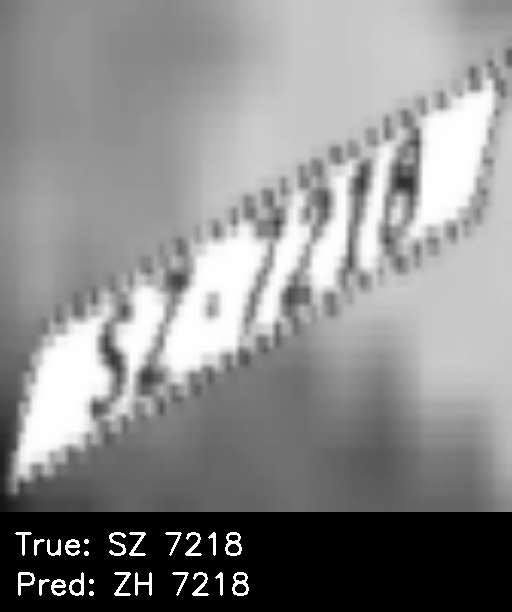
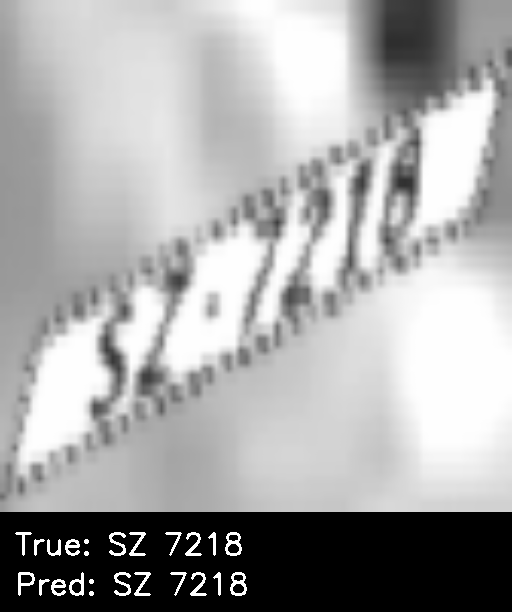
Merge rnn ocr model

diff --git a/out/runs/ocr/report.html b/out/runs/ocr/report.html
@@ -22,10 +22,10 @@
             <div style="display: flex;justify-content: center;">
                 <table>
 <thead>
-<tr><th>train                      </th><th>validation                  </th><th style="text-align: right;">  step</th></tr>
+<tr><th>train                        </th><th>validation                    </th><th style="text-align: right;">  step</th></tr>
 </thead>
 <tbody>
-<tr><td>{&#x27;loss&#x27;: 4.639585576951504}</td><td>{&#x27;loss&#x27;: 3.0189115557915125}</td><td style="text-align: right;">     9</td></tr>
+<tr><td>{&#x27;loss&#x27;: -0.4548510223685298}</td><td>{&#x27;loss&#x27;: -0.21562448965433317}</td><td style="text-align: right;">     4</td></tr>
 </tbody>
 </table>
             </div>
@@ -33,7 +33,7 @@
 
     <div id = "static_validation_loss">
         <script type = "text/javascript">
-            var spec = {"$schema": "https://vega.github.io/schema/vega-lite/v5.json", "data": {"values": [{"step": "0", "loss": "4.906506472673172", "rev": "workspace"}, {"step": "1", "loss": "4.683909744788439", "rev": "workspace"}, {"step": "2", "loss": "4.373046163565073", "rev": "workspace"}, {"step": "3", "loss": "3.8294682785486565", "rev": "workspace"}, {"step": "4", "loss": "3.5281838469016247", "rev": "workspace"}, {"step": "5", "loss": "3.307673426774832", "rev": "workspace"}, {"step": "6", "loss": "3.186635034206586", "rev": "workspace"}, {"step": "7", "loss": "3.0958421306732373", "rev": "workspace"}, {"step": "8", "loss": "3.0493940321298747", "rev": "workspace"}, {"step": "9", "loss": "3.0189115557915125", "rev": "workspace"}]}, "title": "validation/loss", "width": 300, "height": 300, "params": [{"name": "smooth", "value": 0.001, "bind": {"input": "range", "min": 0.001, "max": 1, "step": 0.001}}], "layer": [{"mark": "line", "encoding": {"x": {"field": "step", "type": "quantitative", "title": "step"}, "y": {"field": "loss", "type": "quantitative", "title": "loss", "scale": {"zero": false}}, "color": {"field": "rev", "type": "nominal"}}, "transform": [{"loess": "loss", "on": "step", "groupby": ["rev", "filename", "field", "filename::field"], "bandwidth": {"signal": "smooth"}}]}, {"mark": {"type": "point", "tooltip": {"content": "data"}}, "encoding": {"x": {"field": "step", "type": "quantitative", "title": "step"}, "y": {"field": "loss", "type": "quantitative", "title": "loss", "scale": {"zero": false}}, "color": {"field": "rev", "type": "nominal"}}}]};
+            var spec = {"$schema": "https://vega.github.io/schema/vega-lite/v5.json", "data": {"values": [{"step": "0", "loss": "0.8247212672080749", "rev": "workspace"}, {"step": "1", "loss": "-0.032062520732721075", "rev": "workspace"}, {"step": "2", "loss": "-0.1608594037576491", "rev": "workspace"}, {"step": "3", "loss": "-0.19911248792106143", "rev": "workspace"}, {"step": "4", "loss": "-0.21562448965433317", "rev": "workspace"}]}, "title": "validation/loss", "width": 300, "height": 300, "params": [{"name": "smooth", "value": 0.001, "bind": {"input": "range", "min": 0.001, "max": 1, "step": 0.001}}], "layer": [{"mark": "line", "encoding": {"x": {"field": "step", "type": "quantitative", "title": "step"}, "y": {"field": "loss", "type": "quantitative", "title": "loss", "scale": {"zero": false}}, "color": {"field": "rev", "type": "nominal"}}, "transform": [{"loess": "loss", "on": "step", "groupby": ["rev", "filename", "field", "filename::field"], "bandwidth": {"signal": "smooth"}}]}, {"mark": {"type": "point", "tooltip": {"content": "data"}}, "encoding": {"x": {"field": "step", "type": "quantitative", "title": "step"}, "y": {"field": "loss", "type": "quantitative", "title": "loss", "scale": {"zero": false}}, "color": {"field": "rev", "type": "nominal"}}}]};
             vegaEmbed('#static_validation_loss', spec);
         </script>
     </div>
@@ -41,7 +41,7 @@
 
     <div id = "static_train_loss">
         <script type = "text/javascript">
-            var spec = {"$schema": "https://vega.github.io/schema/vega-lite/v5.json", "data": {"values": [{"step": "0", "loss": "7.523210719227791", "rev": "workspace"}, {"step": "1", "loss": "7.178695440292358", "rev": "workspace"}, {"step": "2", "loss": "6.717950440943241", "rev": "workspace"}, {"step": "3", "loss": "5.933043695986271", "rev": "workspace"}, {"step": "4", "loss": "5.426142118871212", "rev": "workspace"}, {"step": "5", "loss": "5.067850895226002", "rev": "workspace"}, {"step": "6", "loss": "4.883986108005047", "rev": "workspace"}, {"step": "7", "loss": "4.738595016300678", "rev": "workspace"}, {"step": "8", "loss": "4.680229909718037", "rev": "workspace"}, {"step": "9", "loss": "4.639585576951504", "rev": "workspace"}]}, "title": "train/loss", "width": 300, "height": 300, "params": [{"name": "smooth", "value": 0.001, "bind": {"input": "range", "min": 0.001, "max": 1, "step": 0.001}}], "layer": [{"mark": "line", "encoding": {"x": {"field": "step", "type": "quantitative", "title": "step"}, "y": {"field": "loss", "type": "quantitative", "title": "loss", "scale": {"zero": false}}, "color": {"field": "rev", "type": "nominal"}}, "transform": [{"loess": "loss", "on": "step", "groupby": ["rev", "filename", "field", "filename::field"], "bandwidth": {"signal": "smooth"}}]}, {"mark": {"type": "point", "tooltip": {"content": "data"}}, "encoding": {"x": {"field": "step", "type": "quantitative", "title": "step"}, "y": {"field": "loss", "type": "quantitative", "title": "loss", "scale": {"zero": false}}, "color": {"field": "rev", "type": "nominal"}}}]};
+            var spec = {"$schema": "https://vega.github.io/schema/vega-lite/v5.json", "data": {"values": [{"step": "0", "loss": "2.1134449131786823", "rev": "workspace"}, {"step": "1", "loss": "0.015475681808311492", "rev": "workspace"}, {"step": "2", "loss": "-0.29074251413112506", "rev": "workspace"}, {"step": "3", "loss": "-0.38665884447982535", "rev": "workspace"}, {"step": "4", "loss": "-0.4548510223685298", "rev": "workspace"}]}, "title": "train/loss", "width": 300, "height": 300, "params": [{"name": "smooth", "value": 0.001, "bind": {"input": "range", "min": 0.001, "max": 1, "step": 0.001}}], "layer": [{"mark": "line", "encoding": {"x": {"field": "step", "type": "quantitative", "title": "step"}, "y": {"field": "loss", "type": "quantitative", "title": "loss", "scale": {"zero": false}}, "color": {"field": "rev", "type": "nominal"}}, "transform": [{"loess": "loss", "on": "step", "groupby": ["rev", "filename", "field", "filename::field"], "bandwidth": {"signal": "smooth"}}]}, {"mark": {"type": "point", "tooltip": {"content": "data"}}, "encoding": {"x": {"field": "step", "type": "quantitative", "title": "step"}, "y": {"field": "loss", "type": "quantitative", "title": "loss", "scale": {"zero": false}}, "color": {"field": "rev", "type": "nominal"}}}]};
             vegaEmbed('#static_train_loss', spec);
         </script>
     </div>

diff --git a/out/evaluations/stack/report.html b/out/evaluations/stack/report.html
@@ -20,7 +20,7 @@
 <tr><th style="text-align: right;">  val_acc</th></tr>
 </thead>
 <tbody>
-<tr><td style="text-align: right;">0.0192308</td></tr>
+<tr><td style="text-align: right;"> 0.792268</td></tr>
 </tbody>
 </table>
             </div>

diff --git a/src/models/cnn_ocr_model.py b/src/models/cnn_ocr_model.py
@@ -19,10 +19,6 @@ class CNNOCRModel(AbstractModel):
         gru_num_layers: int,
         gru_num_classes: int,
         gru_dropout: float,
-        rnn_avgpool_size: Tuple[int, int],
-        rnn_hidden_layers: Tuple[int],
-        rnn_num_classes: int,
-        rnn_dropout: float,
     ):
         """
         Initialize the model.
@@ -33,21 +29,14 @@ class CNNOCRModel(AbstractModel):
             conv_layers (Tuple[int | str]): List of convolutional layers. Each
                 element can be an integer (number of features) or a string
                 ("M" for maxpooling).
-            gru_avgpool_size (Tuple[int, int]): Size of the average pooling layer.
-                It should be a tuple of two integers.
+            gru_avgpool_size (Tuple[int, int]): Size of the average pooling
+                layer. It should be a tuple of two integers.
             gru_hidden_size (int): Number of features in the hidden state of
                 the GRU.
             gru_num_layers (int): Number of recurrent layers.
             gru_num_classes (int): Number of classes for the text/digit
                 recognition including the blank class. (c.f. CTC loss)
             gru_dropout (float): Dropout rate for the GRU layer.
-            rnn_avgpool_size (Tuple[int, int]): Size of the average pooling layer.
-                It should be a tuple of two integers.
-            rnn_hidden_layers (Tuple[int]): List of hidden layers for the
-                RNN caterigorical classification.
-            rnn_num_classes (int): Number of classes for an additional
-                classification layer.
-            rnn_dropout (float): Dropout rate for the RNN.
         """
         super(CNNOCRModel, self).__init__()
 
@@ -69,7 +58,7 @@ class CNNOCRModel(AbstractModel):
 
         self.features = nn.Sequential(*self.features_layers_conv)
         self.gru_avgpool = nn.AdaptiveAvgPool2d(gru_avgpool_size)
-        self.rnn_avgpool = nn.AdaptiveAvgPool2d(rnn_avgpool_size)
+        # self.rnn_avgpool = nn.AdaptiveAvgPool2d(rnn_avgpool_size)
 
         # GRU layer
         # https://pytorch.org/docs/stable/generated/torch.nn.GRU.html
@@ -95,41 +84,10 @@ class CNNOCRModel(AbstractModel):
             zero_infinity=True,
         )
 
-        # RNN layers
-        self.flatten = nn.Flatten(start_dim=1)
-        self.hidden_rnn = nn.Sequential()
-        last_layer_features_rnn = (
-            self.features_layers_conv[-3].out_channels
-            * self.rnn_avgpool.output_size[0]
-            * self.rnn_avgpool.output_size[1]
-        )
-        for i, layer_features in enumerate(rnn_hidden_layers):
-            self.hidden_rnn.add_module(
-                str(i),
-                nn.Linear(last_layer_features_rnn, layer_features),
-            )
-            self.hidden_rnn.add_module(str(i + 1), nn.ReLU(inplace=True))
-            self.hidden_rnn.add_module(
-                str(i + 2), nn.Dropout(rnn_dropout, inplace=False)
-            )
-
-            last_layer_features_rnn = layer_features
-
-        self.out_fc_rnn = nn.Linear(last_layer_features_rnn, rnn_num_classes)
-        self.softmax_out = nn.Softmax(dim=-1)
-        self.loss_fn_ce = nn.CrossEntropyLoss()
-
-    def forward(self, x: Tensor) -> Tuple[Tensor, Tensor]:
+    def forward(self, x: Tensor) -> Tensor:
         """Forward pass."""
         # CNN layers
         x = self.features(x)
-
-        # RNN addtionnal classification
-        x_rnn = self.rnn_avgpool(x)
-        x_rnn = self.flatten(x_rnn)
-        x_rnn = self.hidden_rnn(x_rnn)
-        x_rnn = self.out_fc_rnn(x_rnn)
-        x_rnn = self.softmax_out(x_rnn)
 
         # GRU text/digit recognition
         x_gru = self.gru_avgpool(x)
@@ -143,35 +101,27 @@ class CNNOCRModel(AbstractModel):
                 for i in range(x_gru.shape[0])
             ]
         )
-        return (x_gru, x_rnn)
+        return x_gru
 
-    def loss(self, y_pred: Tuple[Tensor, Tensor], y_true: Tensor) -> Tensor:
+    def loss(self, y_pred: Tensor, y_true: Tensor) -> Tensor:
         """Compute the loss."""
         # Permute the dimensions to have the input length as the first
         # dimension
-        pred_gru, pred_rnn = y_pred
-        pred_gru = pred_gru.permute(1, 0, 2)
+        y_pred = y_pred.permute(1, 0, 2)
 
-        true_gru, true_rnn = (
-            y_true[:, : params.OCRParams.MAX_LABEL_LENGTH],
-            # The last column is the class index
-            y_true[:, -1],
-        )
         # Compute the loss for the text/digit recognition
         input_lengths = torch.full(
-            size=(pred_gru.shape[1],), fill_value=pred_gru.shape[0]
+            size=(y_pred.shape[1],), fill_value=y_pred.shape[0]
         )
-        # for each target (true_gru) in the batch, set target length to its
+        # for each target (y_true) in the batch, set target length to its
         # length
-        target_lengths = torch.IntTensor([len(target) for target in true_gru])
+        target_lengths = torch.IntTensor([len(target) for target in y_true])
 
         loss_num = self.loss_fn_ctc(
-            pred_gru,
-            true_gru,
+            y_pred,
+            y_true,
             input_lengths,
             target_lengths,
         )
-        # Compute the loss for the additional classification
-        loss_canton = self.loss_fn_ce(pred_rnn, true_rnn).item()
 
-        return loss_num + loss_canton
+        return loss_num

diff --git a/src/stack/evaluate.py b/src/stack/evaluate.py
@@ -1,6 +1,5 @@
 import os
 from itertools import groupby
-import cv2
 
 import torch
 from dvclive import Live
@@ -11,7 +10,6 @@ import src.utils.model as model_utils
 from src.generators.swiss_license_plates_generator import Canton
 from src.models import model_registry
 from src.utils import evaluation as evaluation_utils
-from src.utils.preview import draw_bb
 from src.utils.seed import set_seed
 
 
@@ -90,31 +88,28 @@ def main() -> None:
                     vinputs_scaled_ocr[j] = scaled
 
                 # Predict the license plate
-                pred_number, pred_canton = ocr_model(
-                    vinputs_scaled_ocr.to(device)
-                )
+                vlabels_pred = ocr_model(vinputs_scaled_ocr.to(device))
 
                 # TODO: Compute the loss
-                # vloss = ocr_model.loss((pred_number, pred_canton), vlabels)
-                # running_vloss += vloss.numpy()
 
                 # Decode the number prediction
-                _, max_number_index = torch.max(pred_number, dim=2)
-                _, max_canton_index = torch.max(pred_canton, dim=1)
+                _, pred_labels_idxs = torch.max(vlabels_pred, dim=2)
 
-                for j in range(vinputs[j].shape[0]): # in range of the batch size
-                    num_raw_prediction = list(
-                        max_number_index[j].cpu().numpy()
-                    )
-                    number_pred = "".join(
+                for j in range(vinputs.shape[0]):  # in range of the batch size
+                    pred = "".join(
                         [
-                            str(d)
-                            for d, _ in groupby(num_raw_prediction)
+                            str(d - len(Canton))
+                            if d >= len(Canton)
+                            else list(Canton)[d].value
+                            for d, _ in groupby(
+                                pred_labels_idxs[j].cpu().numpy()
+                            )
                             if d != params.OCRParams.GRU_BLANK_CLASS
                         ]
                     )
+                    canton_pred, number_pred = pred[:2], pred[2:]
+
                     # Decode the number prediction
-                    canton_pred = list(Canton)[max_canton_index[j]].value
                     if i + j <= samples:
                         img_cropped = transforms.functional.resize(
                             vinputs_scaled_ocr[j],

diff --git a/src/ocr/evaluate.py b/src/ocr/evaluate.py
@@ -41,38 +41,37 @@ def main() -> None:
             vinputs = vinputs.to(device)
             vlabels = vlabels.to(device)
 
-            true_number_idxs, true_canton_idxs = (
-                vlabels[:, :-1],
-                vlabels[:, -1],
-            )
-            true_number_idxs = true_number_idxs.cpu().numpy().astype(int)
-            pred_number, pred_canton = model(vinputs)
+            true_labels_idxs = vlabels.cpu().numpy().astype(int)
+            vlabels_pred = model(vinputs)
 
             # Decode the prediction index
-            _, max_number_pred_idx = torch.max(pred_number, dim=2)
-            _, max_canton_pred_idx = torch.max(pred_canton, dim=1)
+            _, pred_labels_idxs = torch.max(vlabels_pred, dim=2)
             for i in range(vinputs.shape[0]):
                 if i >= max_samples:
                     break
-                number = "".join(
+                true = "".join(
                     [
-                        str(d)
-                        for d in true_number_idxs[i]
+                        str(d - len(Canton))
+                        if d >= len(Canton)
+                        else list(Canton)[d].value
+                        for d in true_labels_idxs[i]
                         if d != params.OCRParams.GRU_BLANK_CLASS
                     ]
                 )
-                number_pred = "".join(
+                pred = "".join(
                     [
-                        str(d)
+                        str(d - len(Canton))
+                        if d >= len(Canton)
+                        else list(Canton)[d].value
                         for d, _ in groupby(
-                            max_number_pred_idx[i].cpu().numpy().astype(int)
+                            pred_labels_idxs[i].cpu().numpy().astype(int)
                         )
                         if d != params.OCRParams.GRU_BLANK_CLASS
                     ]
                 )
+                canton, number = true[:2], true[2:]
+                canton_pred, number_pred = pred[:2], pred[2:]
 
-                canton = list(Canton)[true_canton_idxs[i]].value
-                canton_pred = list(Canton)[max_canton_pred_idx[i]].value
                 evaluation_utils.live_log_img_pred(
                     live,
                     f"pred_{i}.png",

diff --git a/params.py b/params.py
@@ -45,17 +45,17 @@ class EvaluateLocalizeParams:
 class OCRParams:
     # Note: only square images are supported
     IMG_SHAPE = (1, 84, 84)
-    MAX_LABEL_LENGTH = 6
-    # number of digits + 1 for the blank symbol
-    GRU_NUM_CLASSES = 11
-    GRU_BLANK_CLASS = 10
+    MAX_LABEL_LENGTH = 7
+    # cantons (25) + number of digits (10) + 1 for the blank symbol
+    GRU_NUM_CLASSES = 36
+    GRU_BLANK_CLASS = 35
     # number of swiss cantons
-    RNN_NUM_CLASSES = len(Canton)  # not for dvc.yaml
+    # RNN_NUM_CLASSES = len(Canton)  # not for dvc.yaml
 
 
 class PrepareOCRParams:
     SEED = 25_03_2023
-    MAX_IMAGES = 50_000
+    MAX_IMAGES = 75_000
     TRAIN_SPLIT = 0.8
     # the size of the image before cropping
     IMG_SIZE = (256, 256)
@@ -65,21 +65,16 @@ class OCRModelParams:
     MODEL_NAME = "plate_ocr_v2"
     CONV_LAYERS = (64, "M", 128, "M", 256, "M", 256, "M")
 
-    GRU_AVGPOOL_SIZE = (14, 14)
-    GRU_HIDDEN_SIZE = 128
+    GRU_AVGPOOL_SIZE = (15, 15)
+    GRU_HIDDEN_SIZE = 256
     GRU_NUM_LAYERS = 2
-    GRU_DROPOUT = 0.25
-
-    RNN_AVGPOOL_SIZE = (5, 5)
-    RNN_HIDDEN_LAYERS = (1024, 512)
-    RNN_DROPOUT = 0.2
-
+    GRU_DROPOUT = 0.4
 
 
 class TrainOCRParams:
     SEED = 25_03_2023
-    LR = 0.0001
-    EPOCHS = 10
+    LR = 0.0005
+    EPOCHS = 5
 
 
 class EvaluateOCRParams:

diff --git a/src/datasets/swiss_license_plates_ocr_dataset.py b/src/datasets/swiss_license_plates_ocr_dataset.py
@@ -78,19 +78,20 @@ class SwissLicensePlateOCRDataset(SwissLicensePlatesDataset):
         )
 
         # Get the labels
-        number_arr = np.full(
+        labels_arr = np.full(
             (params.OCRParams.MAX_LABEL_LENGTH,),
             fill_value=params.OCRParams.GRU_BLANK_CLASS,
             dtype=np.int64,
         )
-        for i, digit in enumerate(number):
-            number_arr[i] = int(digit)
+        idx = 0
+        # set canton index
+        labels_arr[idx] = self._cantons.index(Canton(canton))
+        idx += 1
 
-        canton_arr = np.array(
-            [self._cantons.index(Canton(canton))], dtype=np.int64
-        )
+        # set nubmer index
+        while idx < len(number) + 1:
+            labels_arr[idx] = int(number[idx - 1]) + len(self._cantons)
+            idx += 1
 
         plate_tensor = self._plate_transform(plate_resized)
-        return plate_tensor, LongTensor(
-            np.concatenate((number_arr, canton_arr))
-        )
+        return plate_tensor, LongTensor(labels_arr)

diff --git a/src/models/__init__.py b/src/models/__init__.py
@@ -18,9 +18,5 @@ model_registry = {
         params.OCRModelParams.GRU_NUM_LAYERS,
         params.OCRParams.GRU_NUM_CLASSES,
         params.OCRModelParams.GRU_DROPOUT,
-        params.OCRModelParams.RNN_AVGPOOL_SIZE,
-        params.OCRModelParams.RNN_HIDDEN_LAYERS,
-        params.OCRParams.RNN_NUM_CLASSES,
-        params.OCRModelParams.RNN_DROPOUT,
     ),
 }
